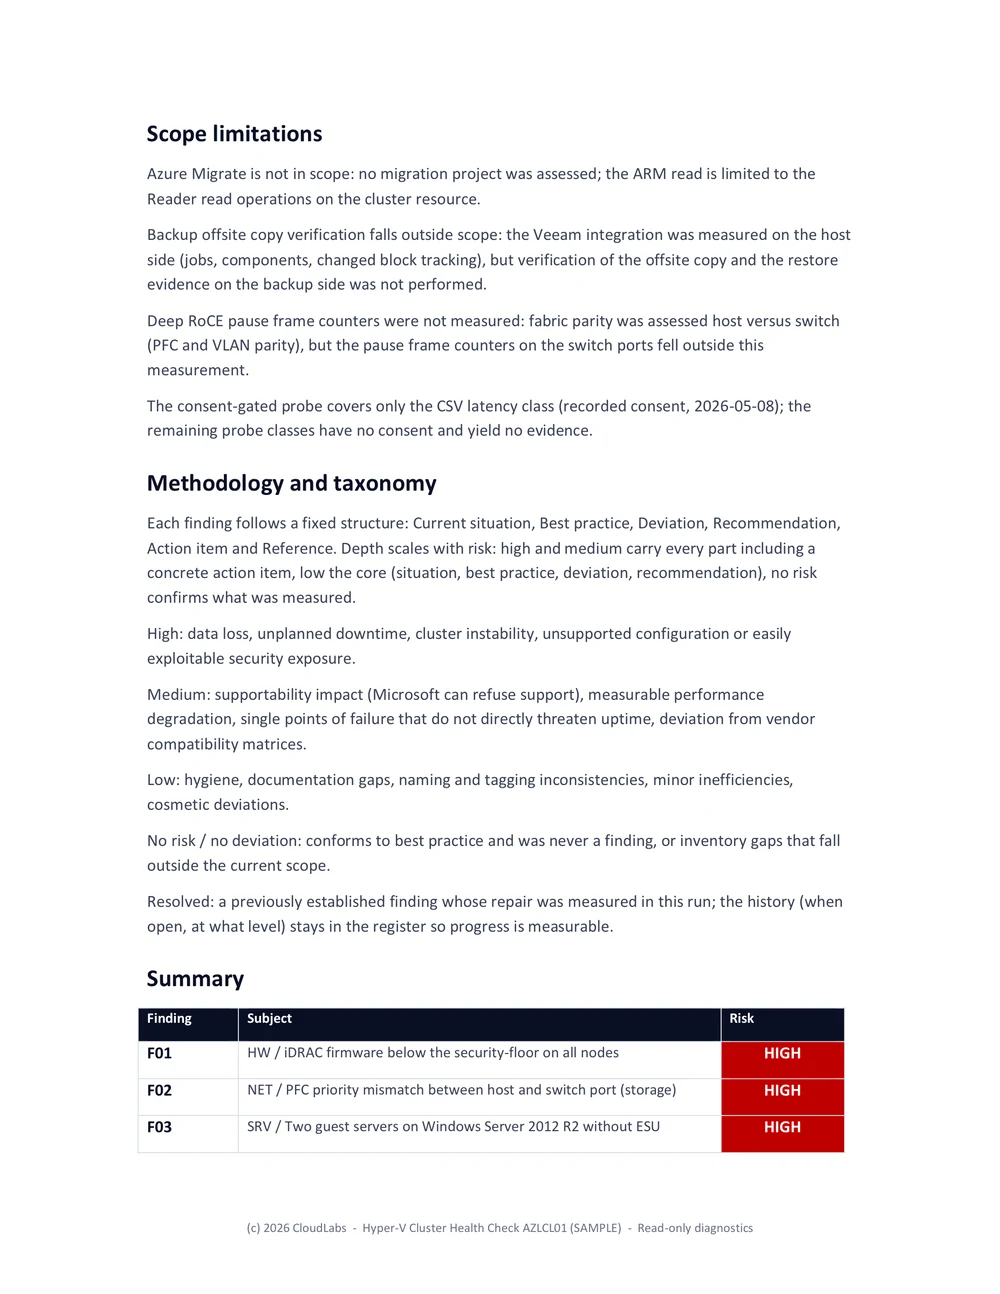
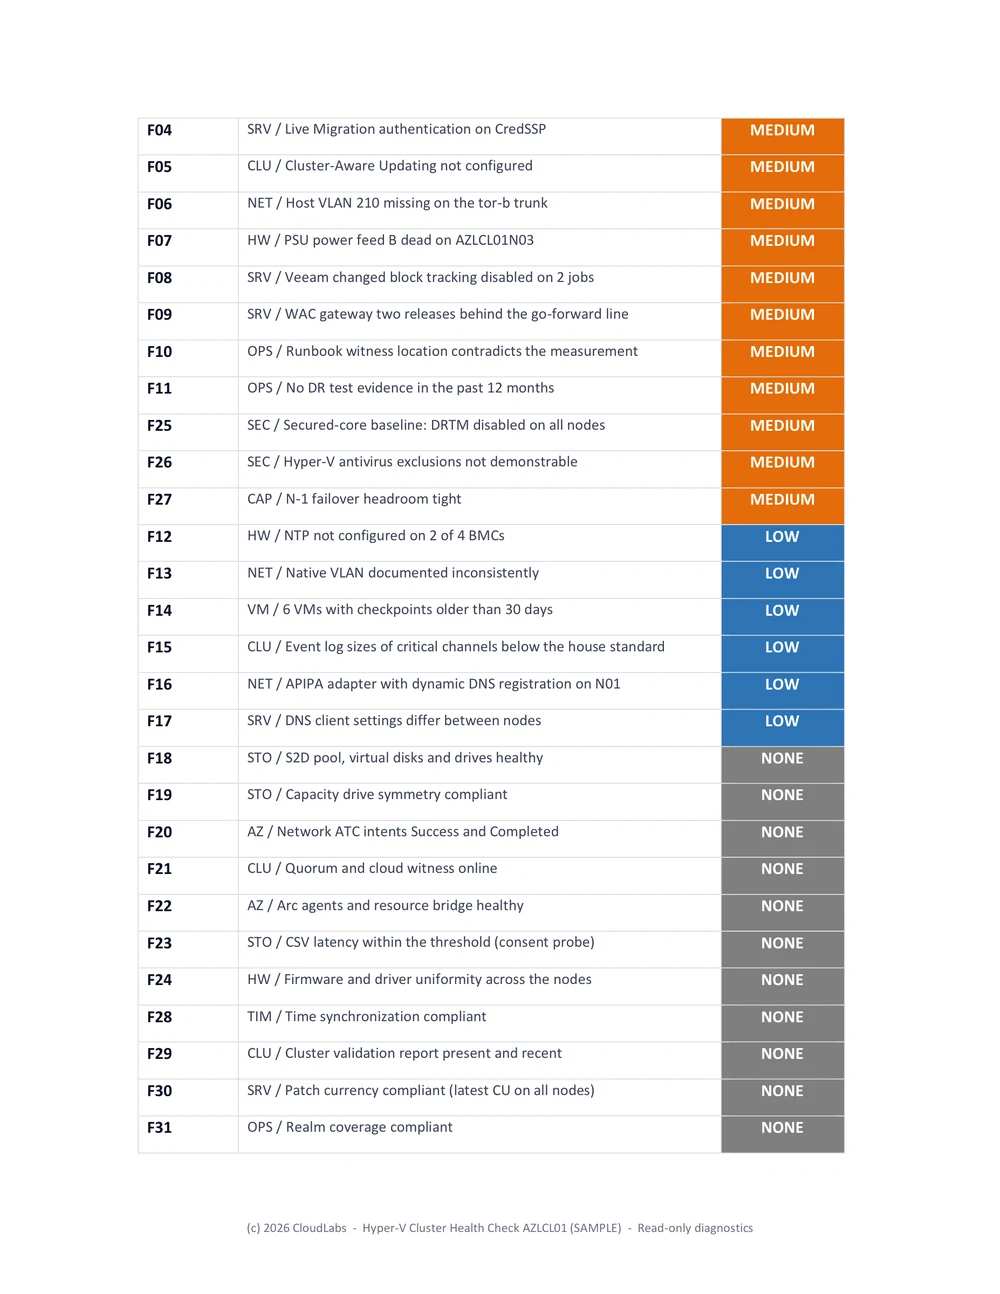
partners: EN findings-summary image use the full F04-F31 continuation page to match the NL version (v0.5.1)

Changed region(s): [[0.124, 0.0927, 0.868, 0.8964]]

diff --git a/partners.html b/partners.html
@@ -1,5 +1,5 @@
 <!doctype html>
-<!-- CloudLabs · v0.5.0 · Partners -->
+<!-- CloudLabs · v0.5.1 · Partners -->
 <html lang="en" data-lang="en">
 <head>
 <meta charset="utf-8">
@@ -422,7 +422,7 @@
     <a href="mailto:hans.vredevoort@cldlbs.com">hans.vredevoort@cldlbs.com</a>
     <a href="book.html" lang="en">Book</a><a href="book.html" lang="nl">Boek</a>
     <a href="privacy.html" lang="en">Privacy</a><a href="privacy.html" lang="nl">Privacy</a>
-    <span class="brand-version">v0.5.0</span>
+    <span class="brand-version">v0.5.1</span>
   </footer>
 
 </div>
